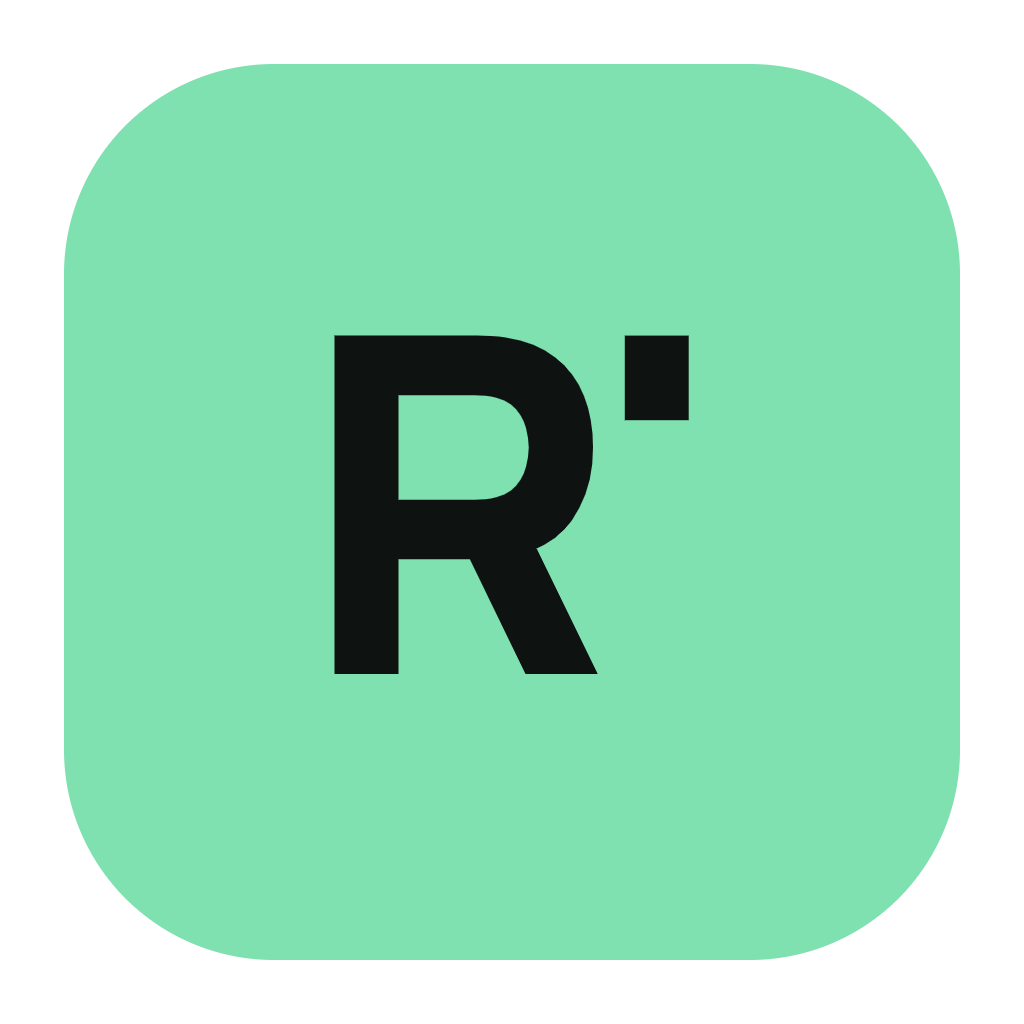
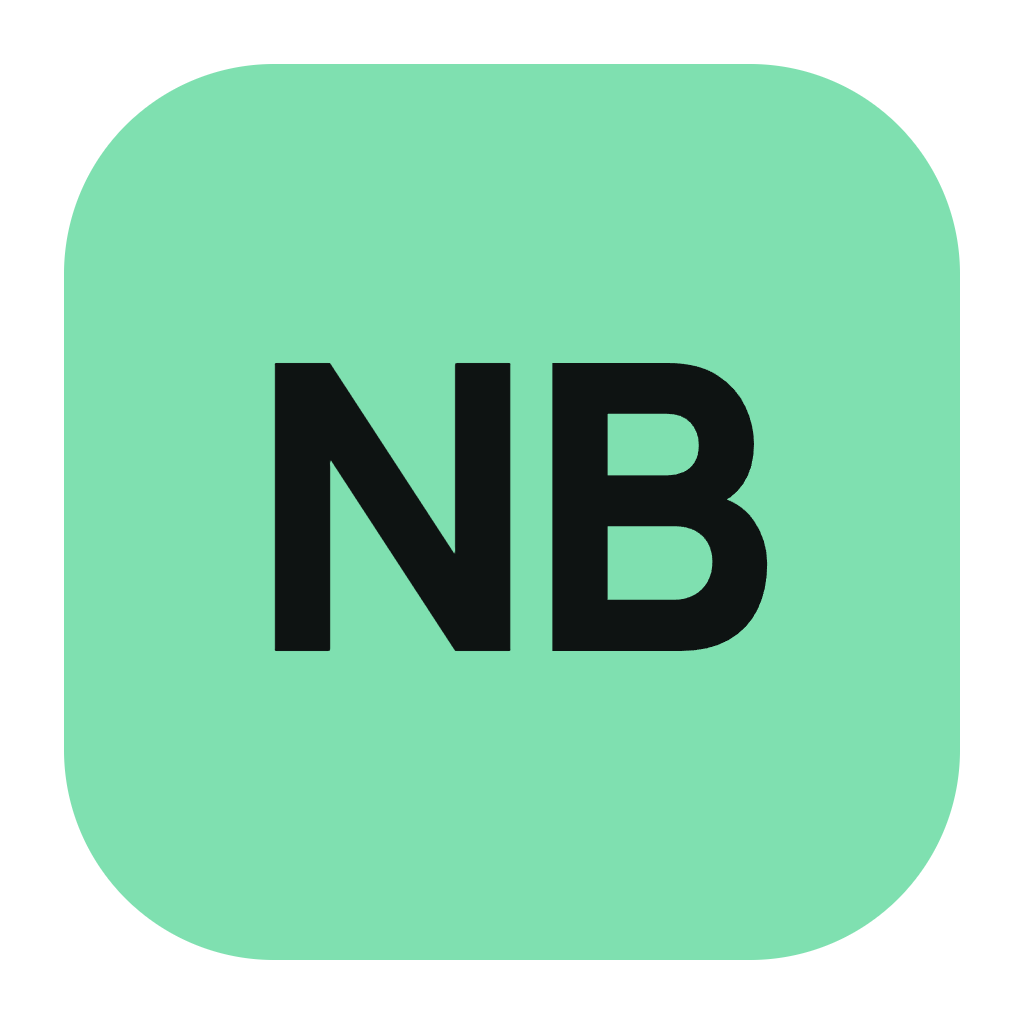
Rename the app to NovelBlocks
The name, logo and icon, window titles, manuals, translations, installer
and links to the repository say NovelBlocks. The settings folder
(%APPDATA%/RenPy-EDITOR) is renamed on the first start, and the Claude
Desktop entry renpy-editor is replaced by novelblocks. What existing
projects and the report service rely on stays as it was: the project
folder .renpy-editor/, the ## renpy-editor: markers and the report key.

Changed region(s): [[0.25, 0.3125, 0.75, 0.6562]]

diff --git a/renpy-editor/main.js b/renpy-editor/main.js
@@ -35,9 +35,23 @@ let settings = {
 let fsWatcher = null;
 let watchDebounce = null;
 
-// Settings live in the user's data folder, the same for the installed editor and a
-// development copy (the editor's own folder is read-only once installed)
-app.setPath('userData', path.join(app.getPath('appData'), 'RenPy-EDITOR'));
+// Settings, downloaded tools (Java) and the windows' data live in the user's data
+// folder, the same for the installed editor and a development copy (the editor's own
+// folder is read-only once installed). Until version 1.0.0 the folder was
+// RenPy-EDITOR: it's renamed the first time NovelBlocks starts
+(() => {
+  const appData = app.getPath('appData');
+  const dir = path.join(appData, 'NovelBlocks');
+  const old = path.join(appData, 'RenPy-EDITOR');
+  if (!fs.existsSync(dir) && fs.existsSync(old)) {
+    try { fs.renameSync(old, dir); }
+    catch (e) {
+      // In use: at least the settings come along
+      try { fs.mkdirSync(dir, { recursive: true }); fs.copyFileSync(path.join(old, 'settings.json'), path.join(dir, 'settings.json')); } catch (e2) { /* first run */ }
+    }
+  }
+  app.setPath('userData', dir);
+})();
 const settingsPath = path.join(app.getPath('userData'), 'settings.json');
 const oldSettingsPath = path.join(__dirname, 'settings.json');
 
@@ -170,7 +184,7 @@ function createMainWindow() {
   mainWindow = new BrowserWindow({
     width: 1400, height: 900,
     minWidth: 900, minHeight: 600,
-    title: "Ren'Py EDITOR",
+    title: "NovelBlocks",
     icon: path.join(__dirname, 'src', 'icon.png'),
     webPreferences: {
       preload: path.join(__dirname, 'preload.js'),
@@ -231,7 +245,7 @@ function createDeclarationWindow() {
   declWindow = new BrowserWindow({
     width: 1000, height: 750,
     minWidth: 700, minHeight: 500,
-    title: "Ren'Py EDITOR — Declaraciones",
+    title: "NovelBlocks — Declaraciones",
     parent: mainWindow,
     webPreferences: {
       preload: path.join(__dirname, 'declaration-preload.js'),
@@ -352,7 +366,7 @@ transform blur:
     // its original menu. "placeholder" tells the editor nothing was configured yet.
     'main_menu_custom.rpy': `## renpy-editor:main_menu {"version":1,"enabled":false,"placeholder":true}
 ##
-## Main menu generated by Ren'Py EDITOR. Edit it from the "Main menu" window:
+## Main menu generated by NovelBlocks. Edit it from the "Main menu" window:
 ## manual changes to this file will be overwritten.
 
 ## The custom main menu is disabled: the game uses the one in screens.rpy.
@@ -1004,7 +1018,7 @@ ipcMain.handle('install-google-font', async (_, family) => {
   try {
     // Without a modern browser's user agent, Google Fonts answers with whole TTF files
     const css = await (await net.fetch('https://fonts.googleapis.com/css2?family=' + encodeURIComponent(family) + '&display=swap',
-      { headers: { 'User-Agent': 'renpy-editor' } })).text();
+      { headers: { 'User-Agent': 'novelblocks' } })).text();
     const url = (/url\((https:\/\/fonts\.gstatic\.com\/[^)]+\.ttf)\)/.exec(css) || [])[1];
     if (!url) return { ok: false, error: 'not-found' };
     const res = await net.fetch(url);
@@ -1369,7 +1383,7 @@ function readPatchConfig() {
 // patch goes inside the game like everything else
 function writePatchSupport(cfg, full = false) {
   const lines = [
-    "## Ren'Py EDITOR: support for the game's patch. The editor writes this file,",
+    "## NovelBlocks: support for the game's patch. The editor writes this file,",
     '## so changes made by hand are lost.'
   ];
   if (!cfg.enabled) {
@@ -1575,7 +1589,7 @@ ipcMain.handle('patch-write-owner', (_, owner, code) => {
 
 // The web app's URL (…/exec) lives in report.config.json, which stays out of
 // git (see report.config.example.json); the env var is for tests
-const REPORT_URL = process.env.RENPY_EDITOR_REPORT_URL || (() => {
+const REPORT_URL = process.env.NOVELBLOCKS_REPORT_URL || (() => {
   try { return JSON.parse(fs.readFileSync(path.join(__dirname, 'report.config.json'), 'utf-8')).url || ''; } catch (e) { return ''; }
 })();
 // Must match APP_KEY in tools/report-apps-script.gs
@@ -1593,7 +1607,7 @@ function reportTechInfo() {
 }
 
 // Reports can also be opened as a GitHub issue, for people who prefer that
-const REPORT_GITHUB_ISSUES = 'https://github.com/Thander11/Ren-Py-EDITOR/issues/new';
+const REPORT_GITHUB_ISSUES = 'https://github.com/Thander11/NovelBlocks/issues/new';
 
 ipcMain.handle('report-info', () => ({ configured: !!REPORT_URL, github: !!REPORT_GITHUB_ISSUES, tech: reportTechInfo() }));
 
@@ -2121,7 +2135,7 @@ ipcMain.handle('install-renpy', async () => {
     if (!isValidRenpyExecutable(exe)) {
       const fileName = `${sdkName}.zip`;
       const checksum = await fetchRenpyChecksum(version, fileName, signal);
-      zipPath = path.join(app.getPath('temp'), `renpy-editor-${Date.now()}-${fileName}`);
+      zipPath = path.join(app.getPath('temp'), `novelblocks-${Date.now()}-${fileName}`);
       sendRenpyProgress({ phase: 'download', received: 0, total: 0, version });
       const digest = await downloadFile(`${RENPY_DL_BASE}/${version}/${fileName}`, zipPath, checksum?.algo, signal);
       if (checksum && digest !== checksum.hash) throw new Error(mt('renpy_checksum_error'));
@@ -2198,7 +2212,7 @@ const claudeChanges = createChangeLog({
 });
 
 const mcpServer = createMcpServer({
-  serverInfo: { name: 'renpy-editor', title: "Ren'Py EDITOR", version: app.getVersion() },
+  serverInfo: { name: 'novelblocks', title: "NovelBlocks", version: app.getVersion() },
   instructions: MCP_INSTRUCTIONS,
   tools: buildMcpTools({
     getGamePath: () => currentGamePath, askRenderer, readGameInfo: () => readGameInfo() || {},
@@ -2258,7 +2272,7 @@ async function drawSceneImage({ html, width, height, fonts = [] }) {
 html, body { margin: 0; padding: 0; overflow: hidden; background: #000; width: ${width}px; height: ${height}px; display: block; }
 .sp-stage { position: absolute; left: 0; top: 0; transform: none !important; }
 </style></head><body>${html}</body></html>`;
-  const tmp = path.join(app.getPath('temp'), `renpy-editor-scene-${process.pid}.html`);
+  const tmp = path.join(app.getPath('temp'), `novelblocks-scene-${process.pid}.html`);
   fs.writeFileSync(tmp, page, 'utf-8');
   const win = new BrowserWindow({
     show: false, width, height, useContentSize: true, frame: false,
@@ -2323,8 +2337,9 @@ ipcMain.handle('claude-desktop-status', () => {
   // Claude Desktop creates its folder the first time it runs
   const found = fs.existsSync(path.dirname(fp));
   try {
-    const entry = (readClaudeDesktopConfig().mcpServers || {})['renpy-editor'];
-    return { found, added: !!entry, current: !!entry && JSON.stringify(entry) === JSON.stringify(claudeDesktopEntry()) };
+    const servers = readClaudeDesktopConfig().mcpServers || {};
+    const entry = servers.novelblocks || servers['renpy-editor'];
+    return { found, added: !!entry, current: !!servers.novelblocks && JSON.stringify(servers.novelblocks) === JSON.stringify(claudeDesktopEntry()) };
   } catch (e) {
     return { found, added: false, current: false, error: 'bad-config' };
   }
@@ -2337,8 +2352,10 @@ ipcMain.handle('claude-desktop-add', () => {
   try { config = readClaudeDesktopConfig(); } catch (e) { return { ok: false, error: 'bad-config' }; }
   try {
     fs.mkdirSync(path.dirname(fp), { recursive: true });
-    if (fs.existsSync(fp)) fs.copyFileSync(fp, fp + '.renpy-editor.bak');
-    config.mcpServers = { ...(config.mcpServers || {}), 'renpy-editor': claudeDesktopEntry() };
+    if (fs.existsSync(fp)) fs.copyFileSync(fp, fp + '.novelblocks.bak');
+    // The entry from before the rename is replaced, not duplicated
+    const { 'renpy-editor': _old, ...servers } = config.mcpServers || {};
+    config.mcpServers = { ...servers, novelblocks: claudeDesktopEntry() };
     fs.writeFileSync(fp, JSON.stringify(config, null, 2), 'utf-8');
     return { ok: true };
   } catch (e) {

diff --git a/renpy-editor/src/manual/manual-ru.js b/renpy-editor/src/manual/manual-ru.js
@@ -1,16 +1,16 @@
-// Ren'Py EDITOR — Руководство пользователя (русский). {{key}} = текст интерфейса
+// NovelBlocks — Руководство пользователя (русский). {{key}} = текст интерфейса
 (window.MANUALS = window.MANUALS || {}).ru = {
-  title: 'Руководство по Ren\'Py EDITOR',
+  title: 'Руководство по NovelBlocks',
   search: 'Поиск по руководству',
   contents: 'Содержание',
   noResults: 'Ни один раздел не содержит этот текст.',
   html: `
 <section id="intro">
   <h2>Добро пожаловать</h2>
-  <p>Ren'Py EDITOR — визуальный редактор для создания визуальных новелл на <a href="https://www.renpy.org" target="_blank" rel="noopener">Ren'Py</a>. Вместо того чтобы писать весь код вручную, ты собираешь каждую сцену из <strong>блоков</strong> (диалоги, смена фона, появление и уход персонажей, выборы…), а редактор пишет код Ren'Py за тебя. Код всегда можно посмотреть и отредактировать напрямую.</p>
+  <p>NovelBlocks — визуальный редактор для создания визуальных новелл на <a href="https://www.renpy.org" target="_blank" rel="noopener">Ren'Py</a>. Вместо того чтобы писать весь код вручную, ты собираешь каждую сцену из <strong>блоков</strong> (диалоги, смена фона, появление и уход персонажей, выборы…), а редактор пишет код Ren'Py за тебя. Код всегда можно посмотреть и отредактировать напрямую.</p>
   <p>Редактор работает с файлами твоего проекта Ren'Py: то, что ты сохраняешь здесь, — обычный проект, который можно открыть и в лаунчере Ren'Py, и в любом текстовом редакторе.</p>
   <div class="man-note"><strong>Слова из кода.</strong> Названия, пришедшие из кода Ren'Py (<code>label</code>, <code>jump</code>, <code>call</code>, <code>Solid</code>…), одинаковы во всех языках, чтобы совпадать с тем, что ты видишь в коде.</div>
-  <p>Ren'Py EDITOR — независимый неофициальный инструмент: он не связан с проектом Ren'Py и не одобрен им. Благодарности и лицензии — в разделе <em>Настройки → О программе и благодарности</em>.</p>
+  <p>NovelBlocks — независимый неофициальный инструмент: он не связан с проектом Ren'Py и не одобрен им. Благодарности и лицензии — в разделе <em>Настройки → О программе и благодарности</em>.</p>
 </section>
 
 <section id="start">

diff --git a/renpy-editor/src/manual/manual-ja.js b/renpy-editor/src/manual/manual-ja.js
@@ -1,16 +1,16 @@
-// Ren'Py EDITOR — ユーザーマニュアル（日本語）。{{key}} = 画面上の表示
+// NovelBlocks — ユーザーマニュアル（日本語）。{{key}} = 画面上の表示
 (window.MANUALS = window.MANUALS || {}).ja = {
-  title: 'Ren\'Py EDITOR マニュアル',
+  title: 'NovelBlocks マニュアル',
   search: 'マニュアルを検索',
   contents: '目次',
   noResults: 'この文字列を含むセクションはありません。',
   html: `
 <section id="intro">
   <h2>はじめに</h2>
-  <p>Ren'Py EDITOR は、<a href="https://www.renpy.org" target="_blank" rel="noopener">Ren'Py</a> でビジュアルノベルを作るためのビジュアルエディターです。すべてのコードを手で書く代わりに、<strong>ブロック</strong>（セリフ、背景の切り替え、キャラクターの登場と退場、選択肢など）を並べて各シーンを作ると、エディターが Ren'Py のコードを書いてくれます。コードはいつでも表示でき、直接編集することもできます。</p>
+  <p>NovelBlocks は、<a href="https://www.renpy.org" target="_blank" rel="noopener">Ren'Py</a> でビジュアルノベルを作るためのビジュアルエディターです。すべてのコードを手で書く代わりに、<strong>ブロック</strong>（セリフ、背景の切り替え、キャラクターの登場と退場、選択肢など）を並べて各シーンを作ると、エディターが Ren'Py のコードを書いてくれます。コードはいつでも表示でき、直接編集することもできます。</p>
   <p>エディターは Ren'Py プロジェクトのファイルをそのまま扱います。ここで保存したものは普通のプロジェクトなので、Ren'Py のランチャーやテキストエディターでも開けます。</p>
   <div class="man-note"><strong>コードの用語。</strong>Ren'Py のコードに由来する名前（<code>label</code>、<code>jump</code>、<code>call</code>、<code>Solid</code> など）は、コードと一致するようにすべての言語で同じ表記にしています。</div>
-  <p>Ren'Py EDITOR は独立した非公式のツールで、Ren'Py プロジェクトとは提携しておらず、承認も受けていません。クレジットとライセンスは<em>設定 → このアプリについて・クレジット</em>にあります。</p>
+  <p>NovelBlocks は独立した非公式のツールで、Ren'Py プロジェクトとは提携しておらず、承認も受けていません。クレジットとライセンスは<em>設定 → このアプリについて・クレジット</em>にあります。</p>
 </section>
 
 <section id="start">

diff --git a/renpy-editor/src/manual/manual-fr.js b/renpy-editor/src/manual/manual-fr.js
@@ -1,16 +1,16 @@
-// Ren'Py EDITOR — Manuel d'utilisation (français). {{key}} = texte de l'interface
+// NovelBlocks — Manuel d'utilisation (français). {{key}} = texte de l'interface
 (window.MANUALS = window.MANUALS || {}).fr = {
-  title: 'Manuel de Ren\'Py EDITOR',
+  title: 'Manuel de NovelBlocks',
   search: 'Rechercher dans le manuel',
   contents: 'Sommaire',
   noResults: 'Aucune section ne contient ce texte.',
   html: `
 <section id="intro">
   <h2>Bienvenue</h2>
-  <p>Ren'Py EDITOR est un éditeur visuel pour créer des visual novels avec <a href="https://www.renpy.org" target="_blank" rel="noopener">Ren'Py</a>. Au lieu d'écrire tout le code à la main, tu construis chaque scène avec des <strong>blocs</strong> (dialogues, changements de décor, personnages qui entrent et sortent, choix…) et l'éditeur écrit le code Ren'Py pour toi. Le code reste toujours visible si tu le souhaites, et tu peux le modifier directement.</p>
+  <p>NovelBlocks est un éditeur visuel pour créer des visual novels avec <a href="https://www.renpy.org" target="_blank" rel="noopener">Ren'Py</a>. Au lieu d'écrire tout le code à la main, tu construis chaque scène avec des <strong>blocs</strong> (dialogues, changements de décor, personnages qui entrent et sortent, choix…) et l'éditeur écrit le code Ren'Py pour toi. Le code reste toujours visible si tu le souhaites, et tu peux le modifier directement.</p>
   <p>L'éditeur travaille sur les fichiers de ton projet Ren'Py : ce que tu enregistres ici est un projet normal, que tu peux aussi ouvrir avec le lanceur de Ren'Py ou n'importe quel éditeur de texte.</p>
   <div class="man-note"><strong>Mots du code.</strong> Les noms qui viennent du code de Ren'Py (<code>label</code>, <code>jump</code>, <code>call</code>, <code>Solid</code>…) restent identiques dans toutes les langues, pour correspondre à ce que tu vois dans le code.</div>
-  <p>Ren'Py EDITOR est un outil indépendant et non officiel : il n'est ni affilié ni approuvé par le projet Ren'Py. Les crédits et licences se trouvent dans <em>Paramètres → À propos et crédits</em>.</p>
+  <p>NovelBlocks est un outil indépendant et non officiel : il n'est ni affilié ni approuvé par le projet Ren'Py. Les crédits et licences se trouvent dans <em>Paramètres → À propos et crédits</em>.</p>
 </section>
 
 <section id="start">

diff --git a/renpy-editor/src/manual/manual-de.js b/renpy-editor/src/manual/manual-de.js
@@ -1,16 +1,16 @@
-// Ren'Py EDITOR — Benutzerhandbuch (Deutsch). {{key}} = Text der Oberfläche
+// NovelBlocks — Benutzerhandbuch (Deutsch). {{key}} = Text der Oberfläche
 (window.MANUALS = window.MANUALS || {}).de = {
-  title: 'Handbuch zu Ren\'Py EDITOR',
+  title: 'Handbuch zu NovelBlocks',
   search: 'Im Handbuch suchen',
   contents: 'Inhalt',
   noResults: 'Kein Abschnitt enthält diesen Text.',
   html: `
 <section id="intro">
   <h2>Willkommen</h2>
-  <p>Ren'Py EDITOR ist ein visueller Editor für Visual Novels mit <a href="https://www.renpy.org" target="_blank" rel="noopener">Ren'Py</a>. Statt den gesamten Code von Hand zu schreiben, baust du jede Szene aus <strong>Blöcken</strong> (Dialoge, Hintergrundwechsel, Figuren, die kommen und gehen, Entscheidungen…) und der Editor schreibt den Ren'Py-Code für dich. Der Code ist jederzeit sichtbar, wenn du willst, und du kannst ihn direkt bearbeiten.</p>
+  <p>NovelBlocks ist ein visueller Editor für Visual Novels mit <a href="https://www.renpy.org" target="_blank" rel="noopener">Ren'Py</a>. Statt den gesamten Code von Hand zu schreiben, baust du jede Szene aus <strong>Blöcken</strong> (Dialoge, Hintergrundwechsel, Figuren, die kommen und gehen, Entscheidungen…) und der Editor schreibt den Ren'Py-Code für dich. Der Code ist jederzeit sichtbar, wenn du willst, und du kannst ihn direkt bearbeiten.</p>
   <p>Der Editor arbeitet mit den Dateien deines Ren'Py-Projekts: Was du hier speicherst, ist ein normales Projekt, das du auch mit dem Ren'Py-Launcher oder einem beliebigen Texteditor öffnen kannst.</p>
   <div class="man-note"><strong>Code-Wörter.</strong> Namen aus dem Ren'Py-Code (<code>label</code>, <code>jump</code>, <code>call</code>, <code>Solid</code>…) bleiben in allen Sprachen gleich, damit sie zu dem passen, was du im Code siehst.</div>
-  <p>Ren'Py EDITOR ist ein unabhängiges, inoffizielles Werkzeug: Es ist nicht mit dem Ren'Py-Projekt verbunden oder von ihm unterstützt. Danksagungen und Lizenzen findest du unter <em>Einstellungen → Über und Danksagungen</em>.</p>
+  <p>NovelBlocks ist ein unabhängiges, inoffizielles Werkzeug: Es ist nicht mit dem Ren'Py-Projekt verbunden oder von ihm unterstützt. Danksagungen und Lizenzen findest du unter <em>Einstellungen → Über und Danksagungen</em>.</p>
 </section>
 
 <section id="start">

diff --git a/renpy-editor/src/manual/manual-pt-BR.js b/renpy-editor/src/manual/manual-pt-BR.js
@@ -1,16 +1,16 @@
-// Ren'Py EDITOR — Manual de uso (português do Brasil). {{key}} = texto da interface
+// NovelBlocks — Manual de uso (português do Brasil). {{key}} = texto da interface
 (window.MANUALS = window.MANUALS || {})['pt-BR'] = {
-  title: 'Manual do Ren\'Py EDITOR',
+  title: 'Manual do NovelBlocks',
   search: 'Buscar no manual',
   contents: 'Sumário',
   noResults: 'Nenhuma seção contém esse texto.',
   html: `
 <section id="intro">
   <h2>Boas-vindas</h2>
-  <p>O Ren'Py EDITOR é um editor visual para criar visual novels com o <a href="https://www.renpy.org" target="_blank" rel="noopener">Ren'Py</a>. Em vez de escrever todo o código à mão, você monta cada cena com <strong>blocos</strong> (diálogos, trocas de fundo, personagens que entram e saem, escolhas…) e o editor escreve o código do Ren'Py para você. O código fica sempre à vista se você quiser, e dá para editá-lo diretamente.</p>
+  <p>O NovelBlocks é um editor visual para criar visual novels com o <a href="https://www.renpy.org" target="_blank" rel="noopener">Ren'Py</a>. Em vez de escrever todo o código à mão, você monta cada cena com <strong>blocos</strong> (diálogos, trocas de fundo, personagens que entram e saem, escolhas…) e o editor escreve o código do Ren'Py para você. O código fica sempre à vista se você quiser, e dá para editá-lo diretamente.</p>
   <p>O editor trabalha com os arquivos do seu projeto do Ren'Py: o que você salva aqui é um projeto normal, que também pode ser aberto no launcher do Ren'Py ou em qualquer editor de texto.</p>
   <div class="man-note"><strong>Palavras do código.</strong> Os nomes que vêm do código do Ren'Py (<code>label</code>, <code>jump</code>, <code>call</code>, <code>Solid</code>…) continuam iguais em todos os idiomas, para coincidirem com o que você vê no código.</div>
-  <p>O Ren'Py EDITOR é uma ferramenta independente e não oficial: não é afiliada nem endossada pelo projeto Ren'Py. Os créditos e licenças estão em <em>Configurações → Sobre e créditos</em>.</p>
+  <p>O NovelBlocks é uma ferramenta independente e não oficial: não é afiliada nem endossada pelo projeto Ren'Py. Os créditos e licenças estão em <em>Configurações → Sobre e créditos</em>.</p>
 </section>
 
 <section id="start">

diff --git a/renpy-editor/src/manual/manual-es.js b/renpy-editor/src/manual/manual-es.js
@@ -1,16 +1,16 @@
-// Ren'Py EDITOR — Manual de uso (español)
+// NovelBlocks — Manual de uso (español)
 (window.MANUALS = window.MANUALS || {}).es = {
-  title: 'Manual de Ren\'Py EDITOR',
+  title: 'Manual de NovelBlocks',
   search: 'Buscar en el manual',
   contents: 'Contenido',
   noResults: 'No hay ninguna sección que contenga ese texto.',
   html: `
 <section id="intro">
   <h2>Bienvenida</h2>
-  <p>Ren'Py EDITOR es un editor visual para crear novelas visuales con <a href="https://www.renpy.org" target="_blank" rel="noopener">Ren'Py</a>. En lugar de escribir todo el código a mano, construyes cada escena con <strong>bloques</strong> (diálogos, cambios de fondo, personajes que entran y salen, decisiones…) y el editor escribe el código de Ren'Py por ti. El código siempre está a la vista si lo quieres, y puedes editarlo directamente.</p>
+  <p>NovelBlocks es un editor visual para crear novelas visuales con <a href="https://www.renpy.org" target="_blank" rel="noopener">Ren'Py</a>. En lugar de escribir todo el código a mano, construyes cada escena con <strong>bloques</strong> (diálogos, cambios de fondo, personajes que entran y salen, decisiones…) y el editor escribe el código de Ren'Py por ti. El código siempre está a la vista si lo quieres, y puedes editarlo directamente.</p>
   <p>El editor trabaja sobre los archivos de tu proyecto de Ren'Py: lo que guardas aquí es un proyecto normal que puedes abrir también con el launcher de Ren'Py o con cualquier editor de texto.</p>
   <div class="man-note"><strong>Palabras de código.</strong> Los nombres que vienen del código de Ren'Py (<code>label</code>, <code>jump</code>, <code>call</code>, <code>Solid</code>…) se mantienen igual en todos los idiomas, para que coincidan con lo que verás en el código.</div>
-  <p>Ren'Py EDITOR es una herramienta independiente y no oficial: no está afiliada ni respaldada por el proyecto Ren'Py. Los créditos y licencias están en <em>Ajustes → Acerca de y créditos</em>.</p>
+  <p>NovelBlocks es una herramienta independiente y no oficial: no está afiliada ni respaldada por el proyecto Ren'Py. Los créditos y licencias están en <em>Ajustes → Acerca de y créditos</em>.</p>
 </section>
 
 <section id="start">

diff --git a/renpy-editor/src/manual/manual-it.js b/renpy-editor/src/manual/manual-it.js
@@ -1,16 +1,16 @@
-// Ren'Py EDITOR — Manuale d'uso (italiano). {{key}} = testo dell'interfaccia
+// NovelBlocks — Manuale d'uso (italiano). {{key}} = testo dell'interfaccia
 (window.MANUALS = window.MANUALS || {}).it = {
-  title: 'Manuale di Ren\'Py EDITOR',
+  title: 'Manuale di NovelBlocks',
   search: 'Cerca nel manuale',
   contents: 'Indice',
   noResults: 'Nessuna sezione contiene questo testo.',
   html: `
 <section id="intro">
   <h2>Benvenuto</h2>
-  <p>Ren'Py EDITOR è un editor visuale per creare visual novel con <a href="https://www.renpy.org" target="_blank" rel="noopener">Ren'Py</a>. Invece di scrivere tutto il codice a mano, costruisci ogni scena con dei <strong>blocchi</strong> (dialoghi, cambi di sfondo, personaggi che entrano ed escono, scelte…) e l'editor scrive il codice Ren'Py per te. Il codice resta sempre visibile se lo vuoi, e puoi modificarlo direttamente.</p>
+  <p>NovelBlocks è un editor visuale per creare visual novel con <a href="https://www.renpy.org" target="_blank" rel="noopener">Ren'Py</a>. Invece di scrivere tutto il codice a mano, costruisci ogni scena con dei <strong>blocchi</strong> (dialoghi, cambi di sfondo, personaggi che entrano ed escono, scelte…) e l'editor scrive il codice Ren'Py per te. Il codice resta sempre visibile se lo vuoi, e puoi modificarlo direttamente.</p>
   <p>L'editor lavora sui file del tuo progetto Ren'Py: ciò che salvi qui è un progetto normale, che puoi aprire anche con il launcher di Ren'Py o con qualsiasi editor di testo.</p>
   <div class="man-note"><strong>Parole del codice.</strong> I nomi che vengono dal codice di Ren'Py (<code>label</code>, <code>jump</code>, <code>call</code>, <code>Solid</code>…) restano uguali in tutte le lingue, così coincidono con ciò che vedi nel codice.</div>
-  <p>Ren'Py EDITOR è uno strumento indipendente e non ufficiale: non è affiliato né approvato dal progetto Ren'Py. Crediti e licenze sono in <em>Impostazioni → Informazioni e crediti</em>.</p>
+  <p>NovelBlocks è uno strumento indipendente e non ufficiale: non è affiliato né approvato dal progetto Ren'Py. Crediti e licenze sono in <em>Impostazioni → Informazioni e crediti</em>.</p>
 </section>
 
 <section id="start">

diff --git a/renpy-editor/src/manual/manual-en.js b/renpy-editor/src/manual/manual-en.js
@@ -1,16 +1,16 @@
-// Ren'Py EDITOR — User manual (English; shown for every language except Spanish)
+// NovelBlocks — User manual (English; shown for every language except Spanish)
 (window.MANUALS = window.MANUALS || {}).en = {
-  title: 'Ren\'Py EDITOR manual',
+  title: 'NovelBlocks manual',
   search: 'Search the manual',
   contents: 'Contents',
   noResults: 'No section contains that text.',
   html: `
 <section id="intro">
   <h2>Welcome</h2>
-  <p>Ren'Py EDITOR is a visual editor for making visual novels with <a href="https://www.renpy.org" target="_blank" rel="noopener">Ren'Py</a>. Instead of writing all the code by hand, you build each scene out of <strong>blocks</strong> (dialogue, background changes, characters coming and going, choices…) and the editor writes the Ren'Py code for you. The code is always there if you want to see it, and you can edit it directly.</p>
+  <p>NovelBlocks is a visual editor for making visual novels with <a href="https://www.renpy.org" target="_blank" rel="noopener">Ren'Py</a>. Instead of writing all the code by hand, you build each scene out of <strong>blocks</strong> (dialogue, background changes, characters coming and going, choices…) and the editor writes the Ren'Py code for you. The code is always there if you want to see it, and you can edit it directly.</p>
   <p>The editor works on your Ren'Py project's own files: what you save here is a normal project that you can also open with the Ren'Py launcher or any text editor.</p>
   <div class="man-note"><strong>Code words.</strong> Names that come from Ren'Py code (<code>label</code>, <code>jump</code>, <code>call</code>, <code>Solid</code>…) stay the same in every language, so they match what you see in the code.</div>
-  <p>Ren'Py EDITOR is an independent, unofficial tool: it isn't affiliated with or endorsed by the Ren'Py project. Credits and licenses are in <em>Settings → About and credits</em>.</p>
+  <p>NovelBlocks is an independent, unofficial tool: it isn't affiliated with or endorsed by the Ren'Py project. Credits and licenses are in <em>Settings → About and credits</em>.</p>
 </section>
 
 <section id="start">

diff --git a/renpy-editor/src/manual/manual-zh-TW.js b/renpy-editor/src/manual/manual-zh-TW.js
@@ -1,16 +1,16 @@
-// Ren'Py EDITOR — 使用手冊（繁體中文）。{{key}} = 介面上的文字
+// NovelBlocks — 使用手冊（繁體中文）。{{key}} = 介面上的文字
 (window.MANUALS = window.MANUALS || {})['zh-TW'] = {
-  title: 'Ren\'Py EDITOR 使用手冊',
+  title: 'NovelBlocks 使用手冊',
   search: '搜尋手冊',
   contents: '目錄',
   noResults: '沒有章節包含這段文字。',
   html: `
 <section id="intro">
   <h2>歡迎</h2>
-  <p>Ren'Py EDITOR 是一款用 <a href="https://www.renpy.org" target="_blank" rel="noopener">Ren'Py</a> 製作視覺小說的視覺化編輯器。你不必手寫所有程式碼，而是用<strong>區塊</strong>（對話、更換背景、角色登場與退場、選項……）來組合每個場景，編輯器會替你寫出 Ren'Py 程式碼。只要你想，程式碼隨時可見，也能直接修改。</p>
+  <p>NovelBlocks 是一款用 <a href="https://www.renpy.org" target="_blank" rel="noopener">Ren'Py</a> 製作視覺小說的視覺化編輯器。你不必手寫所有程式碼，而是用<strong>區塊</strong>（對話、更換背景、角色登場與退場、選項……）來組合每個場景，編輯器會替你寫出 Ren'Py 程式碼。只要你想，程式碼隨時可見，也能直接修改。</p>
   <p>編輯器直接處理你的 Ren'Py 專案檔案：在這裡儲存的就是一般的專案，也可以用 Ren'Py 啟動器或任何文字編輯器開啟。</p>
   <div class="man-note"><strong>程式碼詞彙。</strong>來自 Ren'Py 程式碼的名稱（<code>label</code>、<code>jump</code>、<code>call</code>、<code>Solid</code>……）在所有語言中保持不變，以便與程式碼中看到的一致。</div>
-  <p>Ren'Py EDITOR 是一個獨立的非官方工具，與 Ren'Py 專案沒有關聯，也未獲其認可。致謝與授權條款見<em>設定 → 關於與致謝</em>。</p>
+  <p>NovelBlocks 是一個獨立的非官方工具，與 Ren'Py 專案沒有關聯，也未獲其認可。致謝與授權條款見<em>設定 → 關於與致謝</em>。</p>
 </section>
 
 <section id="start">

diff --git a/renpy-editor/src/manual/manual-zh-CN.js b/renpy-editor/src/manual/manual-zh-CN.js
@@ -1,16 +1,16 @@
-// Ren'Py EDITOR — 使用手册（简体中文）。{{key}} = 界面上的文字
+// NovelBlocks — 使用手册（简体中文）。{{key}} = 界面上的文字
 (window.MANUALS = window.MANUALS || {})['zh-CN'] = {
-  title: 'Ren\'Py EDITOR 使用手册',
+  title: 'NovelBlocks 使用手册',
   search: '搜索手册',
   contents: '目录',
   noResults: '没有章节包含这段文字。',
   html: `
 <section id="intro">
   <h2>欢迎</h2>
-  <p>Ren'Py EDITOR 是一款用 <a href="https://www.renpy.org" target="_blank" rel="noopener">Ren'Py</a> 制作视觉小说的可视化编辑器。你不必手写全部代码，而是用<strong>块</strong>（对话、更换背景、角色登场和退场、选项……）来搭建每个场景，编辑器会替你写出 Ren'Py 代码。只要你愿意，代码随时可见，也可以直接修改。</p>
+  <p>NovelBlocks 是一款用 <a href="https://www.renpy.org" target="_blank" rel="noopener">Ren'Py</a> 制作视觉小说的可视化编辑器。你不必手写全部代码，而是用<strong>块</strong>（对话、更换背景、角色登场和退场、选项……）来搭建每个场景，编辑器会替你写出 Ren'Py 代码。只要你愿意，代码随时可见，也可以直接修改。</p>
   <p>编辑器直接处理你的 Ren'Py 项目文件：在这里保存的就是一个普通项目，也可以用 Ren'Py 启动器或任何文本编辑器打开。</p>
   <div class="man-note"><strong>代码词汇。</strong>来自 Ren'Py 代码的名称（<code>label</code>、<code>jump</code>、<code>call</code>、<code>Solid</code>……）在所有语言中保持不变，以便与代码中看到的一致。</div>
-  <p>Ren'Py EDITOR 是一个独立的非官方工具，与 Ren'Py 项目没有关联，也未获其认可。致谢与许可证见<em>设置 → 关于与致谢</em>。</p>
+  <p>NovelBlocks 是一个独立的非官方工具，与 Ren'Py 项目没有关联，也未获其认可。致谢与许可证见<em>设置 → 关于与致谢</em>。</p>
 </section>
 
 <section id="start">

diff --git a/renpy-editor/mcp-tools.js b/renpy-editor/mcp-tools.js
@@ -8,7 +8,7 @@ const path = require('path');
 const os = require('os');
 const CharactersFile = require('./src/characters-file');
 
-const INSTRUCTIONS = `This server is Ren'Py EDITOR, a visual editor for Ren'Py visual novels that the user has open on their computer.
+const INSTRUCTIONS = `This server is NovelBlocks, a visual editor for Ren'Py visual novels that the user has open on their computer.
 Use these tools to understand the user's novel: its scenes (Ren'Py labels), the jumps, calls and decisions between them, characters, images, audio, story variables and GUI settings.
 Start with get_project_overview, then get_story_map to see how the story flows, and read_label to read the code of a scene.
 Ren'Py terms such as label, jump, call, menu, scene, show and define keep their code names.
@@ -22,7 +22,7 @@ const READ_ONLY = { readOnlyHint: true, destructiveHint: false, openWorldHint: f
 function buildMcpTools({ getGamePath, askRenderer, readGameInfo, changes, saveGameInfo, renderSceneImage, launchGame }) {
   function gamePathOrThrow() {
     const gp = getGamePath();
-    if (!gp || !fs.existsSync(gp)) throw new Error('No project is open in Ren\'Py EDITOR. Ask the user to open their novel first.');
+    if (!gp || !fs.existsSync(gp)) throw new Error('No project is open in NovelBlocks. Ask the user to open their novel first.');
     return gp;
   }
 
@@ -291,7 +291,7 @@ function buildWriteTools({ gamePathOrThrow, rpyFiles, resolveRpy, findLabel, cha
     queue = run.catch(() => {});
     return run;
   };
-  const done = (entry, text) => `${text}\nChange ${entry.id} — the user can undo it from Ren'Py EDITOR (Settings › Connection with Claude › Changes).`;
+  const done = (entry, text) => `${text}\nChange ${entry.id} — the user can undo it from NovelBlocks (Settings › Connection with Claude › Changes).`;
 
   // New .rpy files go in game/ itself, where the editor finds them
   function rpyTarget(gp, file) {
